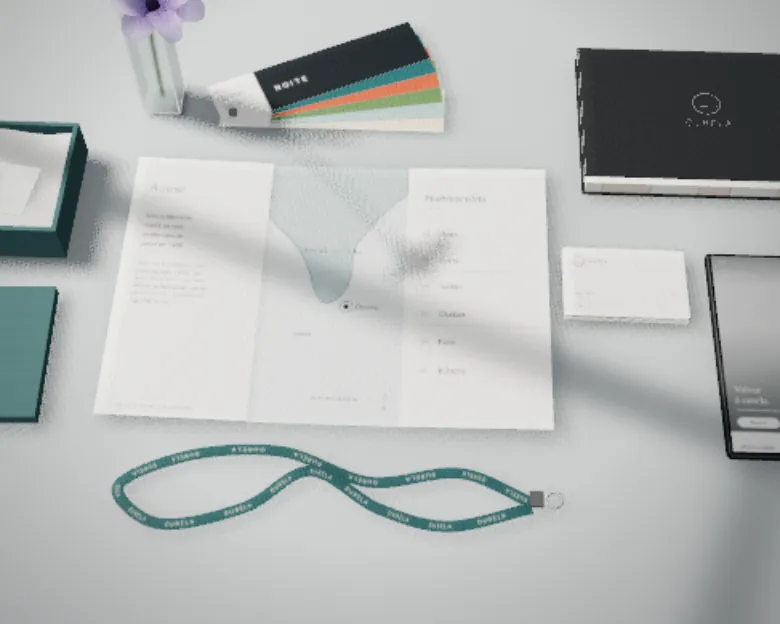
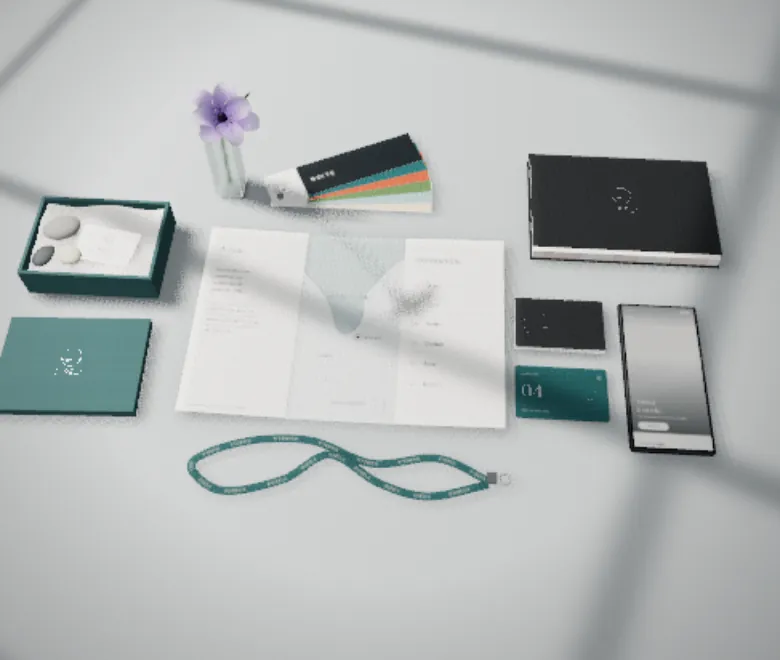
Identity scene: the whole spread in view on narrow frames instead of cut at the sides; its phone still to match
Claude-Session: https://claude.ai/code/session_01T6Qvjt4KiDzebSgFGHNPky

diff --git a/src/components/Identity/StationeryScene.tsx b/src/components/Identity/StationeryScene.tsx
@@ -1165,6 +1165,10 @@ async function build(host: HTMLDivElement, onReady: () => void, paused: { curren
     const w = host.clientWidth, h = host.clientHeight;
     if (!w || !h) return;
     camera.aspect = w / h;
+    // the same width of table in every frame: framed for a wide one (30° at 16:9), a narrower frame (a phone)
+    // draws back to keep the whole spread in view instead of cutting the pieces at its sides
+    const WIDE = 16 / 9, half = Math.atan(Math.tan(THREE.MathUtils.degToRad(15)) * WIDE);
+    camera.fov = camera.aspect >= WIDE ? 30 : THREE.MathUtils.radToDeg(2 * Math.atan((Math.tan(half) * 0.93) / camera.aspect));
     camera.updateProjectionMatrix();
     renderer.setSize(w, h);
     composer.setSize(w, h);
